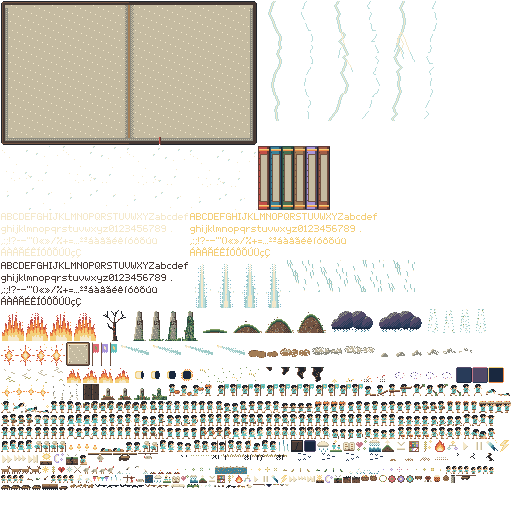
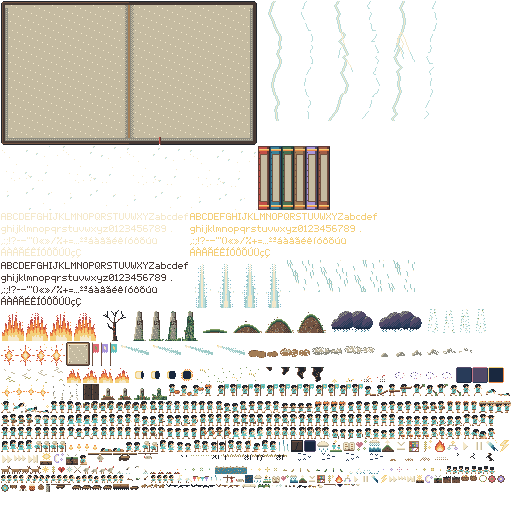
Brincadeiras de crianças: pega-pega (quem foge e o pegador) e ciranda (de frente e de costas), 6x8 (acoes/brincar.py); LEIA-ME seção 23; atlas regenerados

Changed region(s): [[0.0, 0.9062, 1.0, 0.9688]]

diff --git a/arte_claude/pecas/acoes/brincar.py b/arte_claude/pecas/acoes/brincar.py
@@ -1,0 +1,128 @@
+"""Brincadeiras de crianças: pega-pega e ciranda, em quadros de 6x8 como a criança de sempre
+(cores-base de `habitantes/trocas.json`, base na última linha). Movimento é o que mais chama o
+olho em 1x: as duas brincadeiras se movem pela tela, e quem move é o motor.
+"""
+from pathlib import Path
+import sys
+
+AQUI = Path(__file__).resolve().parent
+sys.path.insert(0, str(AQUI.parent))
+sys.path.insert(0, str(AQUI))
+
+import construcao as k  # noqa: E402
+from vida import crianca  # noqa: E402
+
+# cabeça virada para trás (olhando para a esquerda), de boca aberta, rindo
+CAB_TRAS = ["..hhh.", ".SShHh", ".SeShh", "..xSs."]
+# de frente e de costas, para a roda
+CAB_FRENTE = [".hhhh.", ".hHHh.", ".eSSe.", "..sx.."]
+CAB_COSTAS = [".hhhh.", ".hHhh.", ".hhhh.", "..ss.."]
+TRONCO_FRENTE = [".TTTT.", ".TbbT."]
+
+
+def corpo(cab, tronco, pernas, pontos=(), desce=0):
+    g = [list("......") for _ in range(8)]
+    for y, l in enumerate(cab + tronco):
+        for x, ch in enumerate(l):
+            if ch != "." and y + desce < 8:
+                g[y + desce][x] = ch
+    for j, l in enumerate(pernas):
+        for x, ch in enumerate(l):
+            if ch != ".":
+                g[6 + j][x] = ch
+    for x, y, ch in pontos:
+        if 0 <= x < 6 and 0 <= y < 8:
+            g[y][x] = ch
+    return ["".join(l) for l in g]
+
+
+def pegapega_fugir():
+    """Quem foge: corre de passada larga, olhando para trás e rindo, com os braços para o alto."""
+    tronco = [".TTT..", ".TbT.."]
+    return [
+        corpo(CAB_TRAS, tronco, ["l...L.", "f....F"], [(0, 3, "s"), (5, 2, "S"), (4, 3, "S")]),
+        corpo(CAB_TRAS, tronco, [".lL...", ".fF..."], [(0, 4, "s"), (5, 3, "S"), (4, 4, "S")], desce=0),
+        corpo(CAB_TRAS, tronco, [".L..l.", "F....f"], [(0, 2, "s"), (5, 3, "S"), (4, 4, "S")]),
+        corpo(CAB_TRAS, tronco, ["..Ll..", "..Ff.."], [(0, 3, "s"), (5, 2, "S"), (4, 3, "S")]),
+    ]
+
+
+def pegapega_pegar():
+    """O pegador: corre inclinado para a frente com o braço esticado, tentando alcançar. No
+    quadro 3 o braço chega à coluna 5: é o toque (o motor troca os papéis aí)."""
+    return [
+        crianca([(0, 5, "s"), (4, 4, "S"), (5, 4, "S")], ["l...L.", "f....F"]),
+        crianca([(0, 4, "s"), (4, 4, "S"), (5, 3, "S")], [".lL...", ".fF..."]),
+        crianca([(0, 5, "s"), (4, 4, "S"), (5, 4, "S")], [".L..l.", "F....f"]),
+        crianca([(0, 3, "s"), (4, 3, "S"), (5, 3, "S"), (5, 2, "S")], ["l..L..", "f...F."]),
+    ]
+
+
+PERNAS_RODA = (["l...L.", "f...F."], [".lL...", ".fF..."], ["l...L.", "f...F."], ["..lL..", "..fF.."])
+
+
+def ciranda(cab):
+    """Na roda, de mãos dadas: braços abertos até as colunas 0 e 5 (as mãos), passo de lado.
+    A 6 px uma da outra, as mãos das vizinhas se encostam e a fila vira uma corrente.
+    Nos quadros 1 e 3 o corpo desce 1 px e as mãos sobem e descem com o balanço."""
+    maos = ([(0, 4, "s"), (5, 4, "s")], [(0, 4, "s"), (5, 4, "s")], [(0, 4, "s"), (5, 4, "s")],
+            [(0, 5, "s"), (5, 5, "s")])
+    return [corpo(cab, TRONCO_FRENTE, pernas, mao, desce=1 if i % 2 else 0)
+            for i, (pernas, mao) in enumerate(zip(PERNAS_RODA, maos))]
+
+
+FOLHAS = {
+    "crianca_pegapega_fugir_4q": pegapega_fugir,
+    "crianca_pegapega_pegar_4q": pegapega_pegar,
+    "crianca_ciranda_4q": lambda: ciranda(CAB_FRENTE),
+    "crianca_ciranda_costas_4q": lambda: ciranda(CAB_COSTAS),
+}
+
+
+def principal():
+    from PIL import Image
+    from comum import PALETA, para_imagem, trocar
+    folhas = {n: k.pintar(f()) for n, f in FOLHAS.items()}
+    for nome, qs in folhas.items():
+        k.gravar(k.folha_quadros(qs), AQUI / f"{nome}.png")
+    # amostra: as folhas, e embaixo as brincadeiras montadas nos 4 quadros
+    roupas = ((26, 30, 28), (24, 23, 27), (23, 8, 29), (25, 8, 28), (26, 23, 29))
+    W, H = 4 * 40 + 8, 2 + len(folhas) * 12 + 4 * 14 + 4
+    img = Image.new("RGBA", (W, H), PALETA[1] + (255,))
+    grama = Image.open(AQUI.parent / "terreno" / "grama_a.png")
+
+    def chao(y):
+        for x in range(0, W, 8):
+            img.alpha_composite(grama, (x, y + 6))
+
+    def crianca_em(q, t, x, y, espelho=False):
+        im = para_imagem(trocar(q, k.hab.troca(*roupas[t % len(roupas)])))
+        if espelho:
+            im = im.transpose(Image.FLIP_LEFT_RIGHT)
+        img.alpha_composite(im, (x, y))
+
+    for j, (nome, qs) in enumerate(folhas.items()):
+        y = 2 + j * 12
+        chao(y)
+        for i, q in enumerate(qs):
+            crianca_em(q, j, 4 + i * 10, y)
+    y0 = 2 + len(folhas) * 12
+    for i in range(4):
+        y = y0 + i * 14
+        chao(y + 2)
+        # pega-pega: o pegador 7 px atrás de quem foge, os dois indo para a direita
+        x = 4 + i * 6
+        crianca_em(folhas["crianca_pegapega_pegar_4q"][i], 1, x, y + 2)
+        crianca_em(folhas["crianca_pegapega_fugir_4q"][(i + 1) % 4], 2, x + 13, y + 2)
+        # ciranda: 3 de costas atrás (2 px acima, deslocadas 3 px) e 4 de frente, a 6 px
+        for c in range(3):
+            crianca_em(folhas["crianca_ciranda_costas_4q"][(i + c) % 4], c + 3, 96 + c * 6 + 3, y)
+        for c in range(4):
+            crianca_em(folhas["crianca_ciranda_4q"][(i + c + 2) % 4], c, 96 + c * 6, y + 2)
+    img.save(AQUI / "amostra_brincar.png")
+    img.resize((W * 4, H * 4), Image.NEAREST).save(AQUI / "amostra_brincar_4x.png")
+    print("brincadeiras:", ", ".join(folhas))
+
+
+if __name__ == "__main__":
+    principal()

diff --git a/arte_claude/pecas/gerar_tudo.py b/arte_claude/pecas/gerar_tudo.py
@@ -8,7 +8,8 @@ for script in ("terreno/terreno.py", "habitantes/habitantes.py", "estagio1/estag
                "interface/icone_jogo.py", "estagio2/estagio2.py", "memoria/memoria.py", "culturas/culturas.py",
                "estagio3/estagio3.py", "estagio4/estagio4.py", "estagio5/estagio5.py", "estagio6/estagio6.py",
                "montagem/camadas.py", "montagem/montar.py", "cenas/cenas.py",
-               "acoes/acoes.py", "acoes/vida.py", "acoes/cotidiano.py", "acoes/forte.py", "natureza/natureza.py",
+               "acoes/acoes.py", "acoes/vida.py", "acoes/cotidiano.py", "acoes/forte.py", "acoes/brincar.py",
+               "natureza/natureza.py",
                "estante/estante.py", "criaturas/criaturas.py", "nuvens/nuvens.py",
                # as estações vêm depois de todas as peças, porque geram as variações a partir delas
                "estacoes/estacoes.py", "estacoes/cena_estacoes.py", "luzes/luzes.py"):

diff --git a/arte_claude/pecas/LEIA-ME.md b/arte_claude/pecas/LEIA-ME.md
@@ -660,6 +660,21 @@ A sugestão é usar a versão forte no 1x e a de sempre no 10x e no 50x, ou só 
 | `buscar_agua` | `acoes/buscar_agua_forte_4q` | 12 × 12 | 4 | na margem, de frente para a água: chega com o pote vazio no quadril, ajoelha e mergulha o pote com respingos, ergue o pote cheio e o põe na cabeça. Depois, `carregar_agua_forte_4q`. |
 | `carregar_caca` | 2 × `acoes/carregar_caca_forte_4q` + `objetos/caca_no_pau_porco_forte` ou `caca_no_pau_ave_forte` | 8 × 12; objeto 24 × 9 | 4 | os dois carregadores ficam a **16 px** um do outro (8 px de vão para o bicho), com os quadros defasados em 2. O objeto vai com o x do carregador de trás e as linhas 0 e 1 (o pau de 2 px) nas linhas 3 e 4 dos carregadores. O bicho pendura pelas patas amarradas (corda clara) no meio do vão. Desenhe o objeto por cima dos dois. |
 
+## 23. Brincadeiras de crianças (`acoes/brincar.py`)
+
+Quadros de 6 × 8, como a criança de sempre, com as mesmas cores-base. Quem desloca as crianças pela tela é o motor. `acoes/amostra_brincar_4x.png` mostra as folhas e, embaixo, as duas brincadeiras montadas nos 4 quadros.
+
+| Brincadeira | Folha | Quadros | Como montar |
+|---|---|---|---|
+| pega-pega, quem foge | `acoes/crianca_pegapega_fugir_4q` | 4 | corre de passada larga, olhando para trás e rindo, com os braços para o alto |
+| pega-pega, o pegador | `acoes/crianca_pegapega_pegar_4q` | 4 | corre inclinado, com o braço esticado para a frente. No quadro 3, a mão chega à coluna 5: é o toque. |
+| ciranda, de frente | `acoes/crianca_ciranda_4q` | 4 | de mãos dadas, com os braços abertos até as colunas 0 e 5, dando passos de lado; nos quadros 1 e 3, o corpo desce 1 px no balanço |
+| ciranda, de costas | `acoes/crianca_ciranda_costas_4q` | 4 | a mesma, vista de costas (só o cabelo), para a metade de trás da roda |
+
+**Pega-pega.** As duas crianças correm na mesma direção, mais rápido que o andar (por exemplo, 1,5 vez a velocidade do adulto), com o pegador uns 7 px atrás de quem foge. A distância varia: o pegador se aproxima e perde terreno. Quando ela cai para 4 px, o motor mostra o quadro 3 do pegador (o toque) e troca os papéis: quem foi pego vira e passa a correr atrás. Uma rodada leva uns 6 a 10 s; depois, as crianças mudam de direção ou voltam a andar (`habitantes/crianca_andar_4q`).
+
+**Ciranda.** A roda, vista de lado, é uma fileira dupla. As crianças da frente usam a folha de frente, a 6 px uma da outra, de modo que as mãos das vizinhas se encostam e a fila vira uma corrente. As de trás usam a folha de costas, 2 px acima, deslocadas 3 px e desenhadas antes. Para girar, cada criança anda numa elipse achatada (por exemplo, 24 × 3 px). Na metade da frente usa a folha de frente; na de trás, a de costas. Os quadros das vizinhas ficam defasados em 1. Use de 4 a 8 crianças.
+
 ## Critérios
 
 | Critério | Situação |
